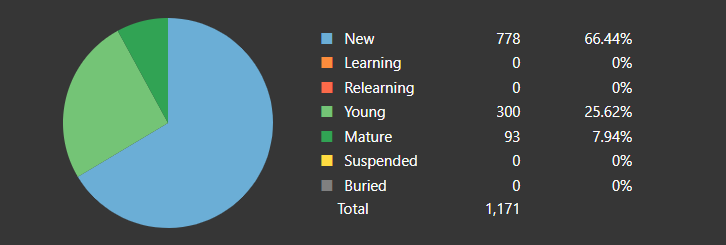
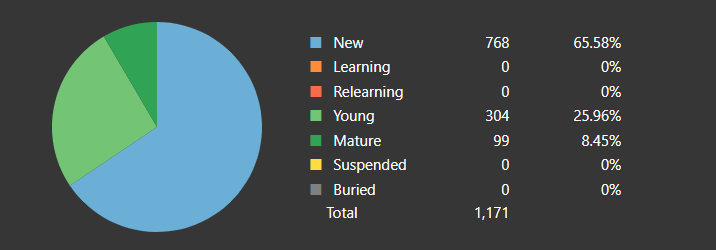
Mostly review but updating card counts

diff --git a/docs/index.md b/docs/index.md
@@ -10,13 +10,11 @@
 
 ## Card Counts
 
-As of **_10/04/2023_** `393 Vocabulary words known`
+As of **_10/05/2023_** `403 Vocabulary words known`
 
 ![Card Counts](./assets/anki-stats/card-counts.png){ align=center }
 
 ## Things I need to work on currently
 
 - Will/Does/Do (not)
-- Describing a noun
-- Negative-Past
-- くなかった
+- Past tense (う and る verbs)
